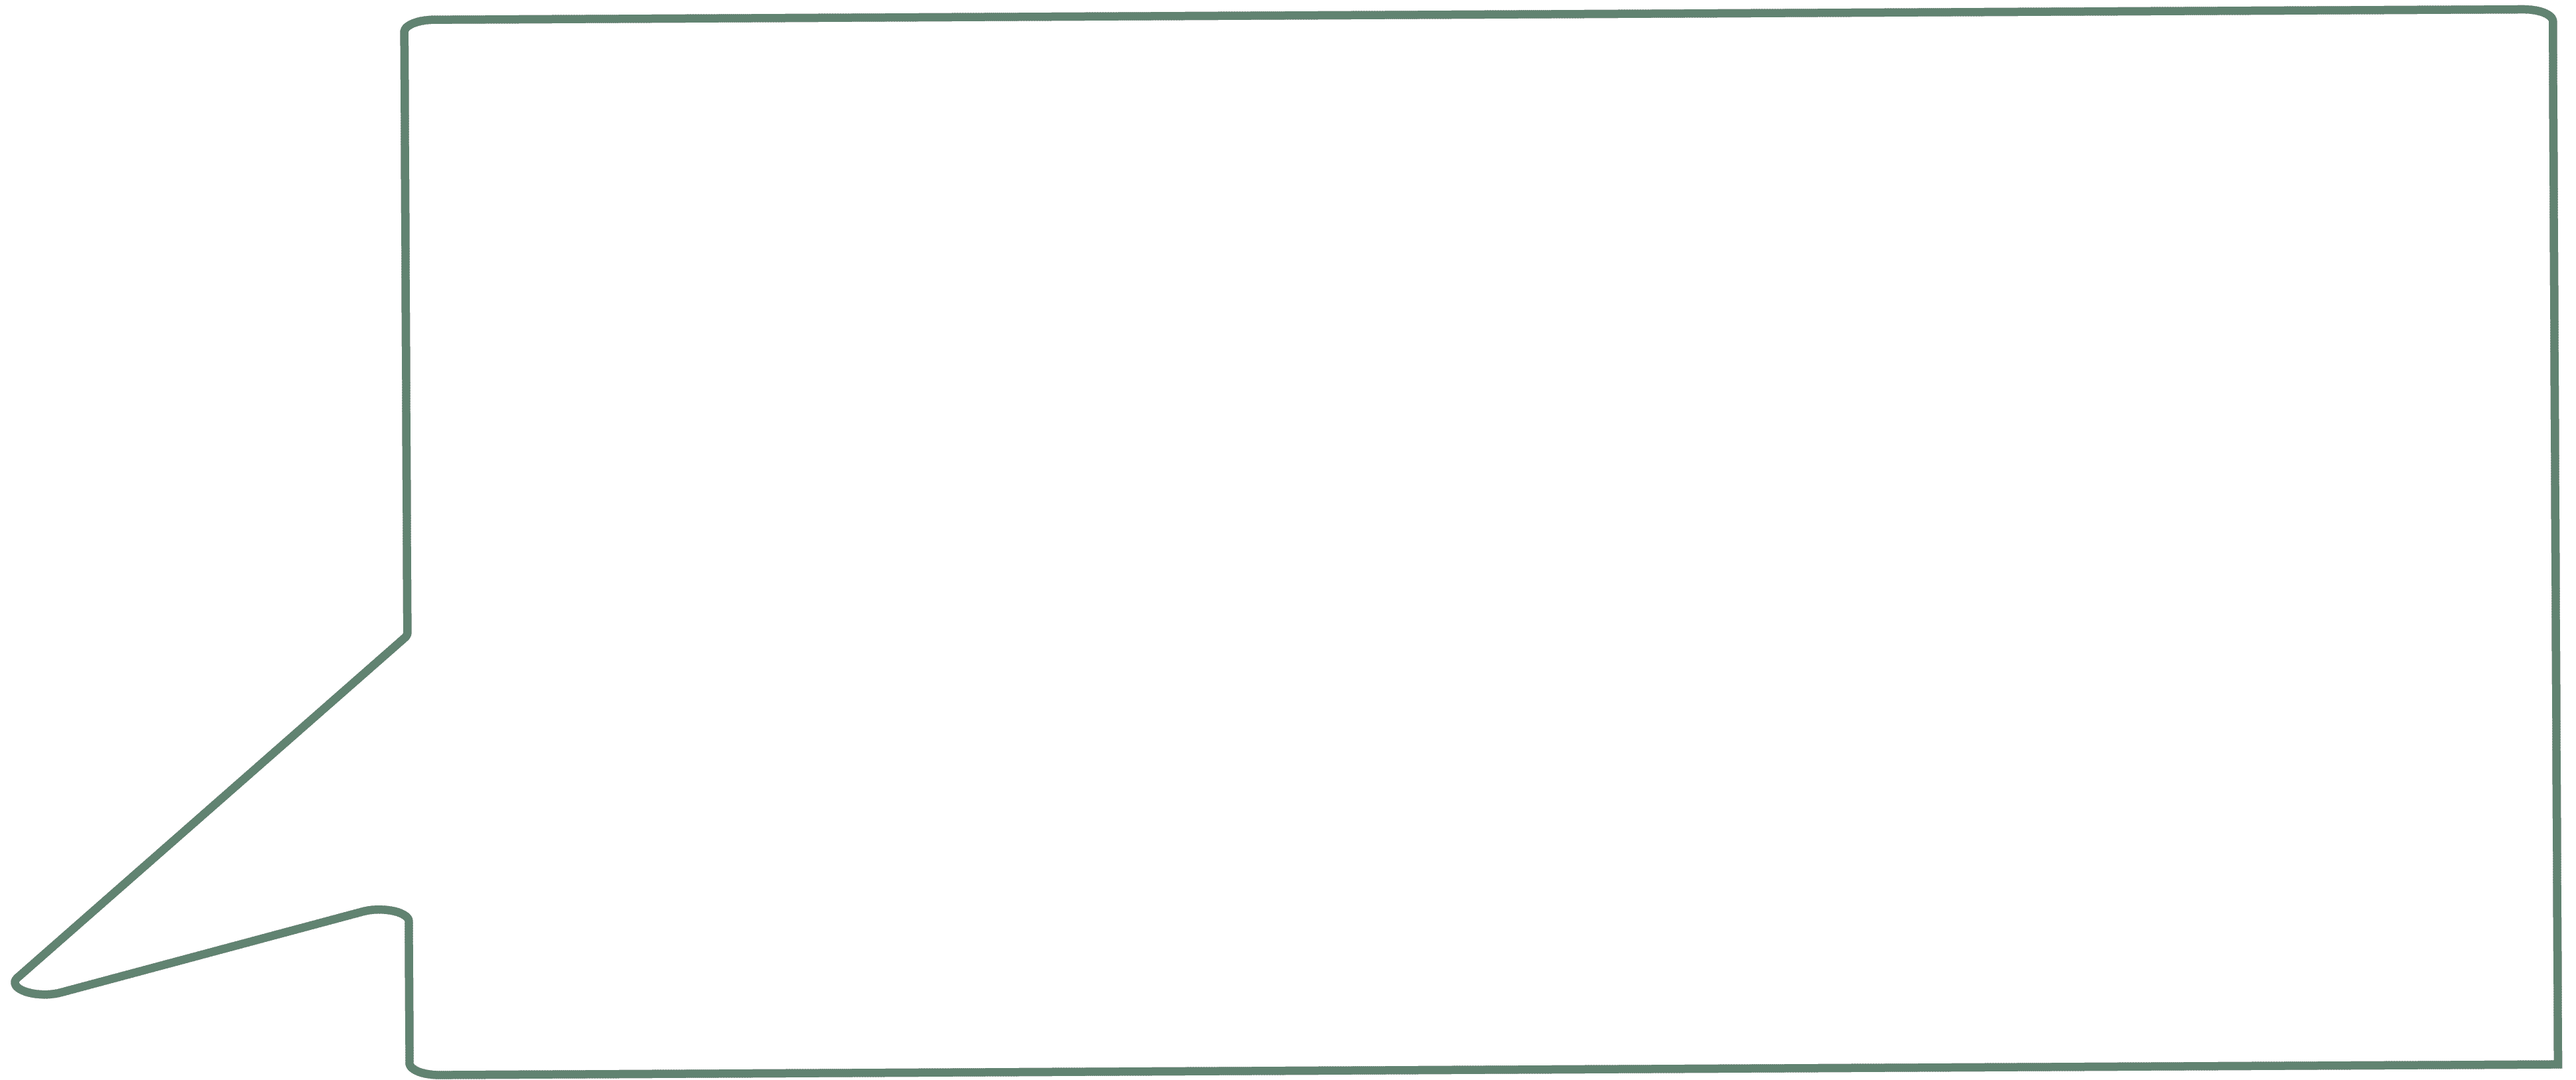
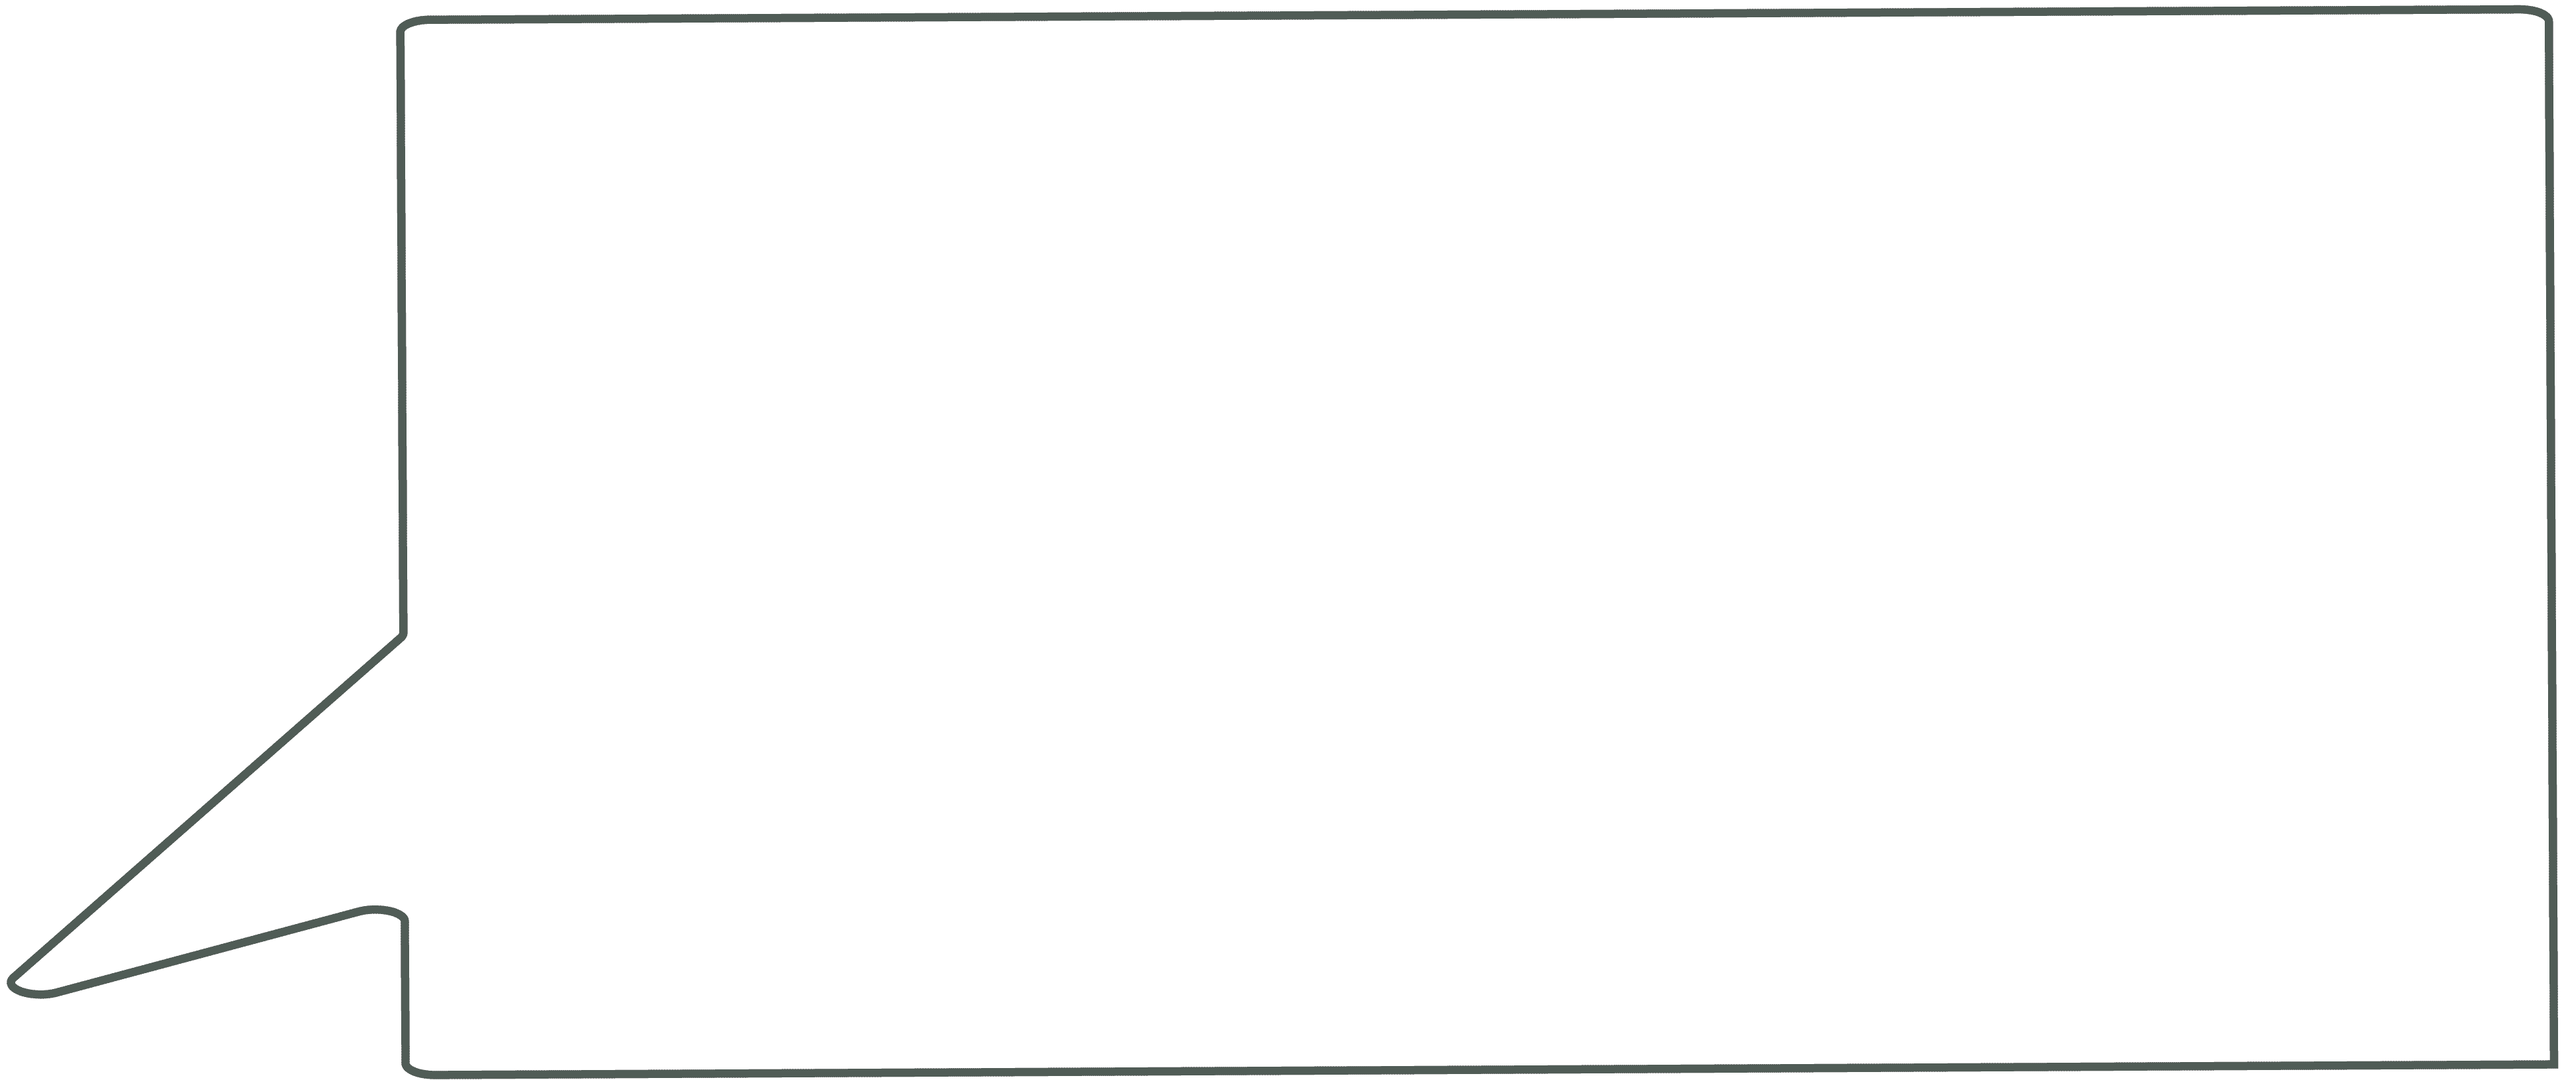
fix: change picture

diff --git a/src/pages/Student/Previous/Overall/index.module.less b/src/pages/Student/Previous/Overall/index.module.less
@@ -7,7 +7,7 @@
     display: flex;
     justify-content: center;
     align-items: center;
-    background-image: url('assets/pic/student/college-process-sentence.png');
+    background-image: url('assets/pic/student/previous-overall-bg.png');
     background-size: 100% 100%;
     background-repeat: no-repeat;
     height: 350px;
